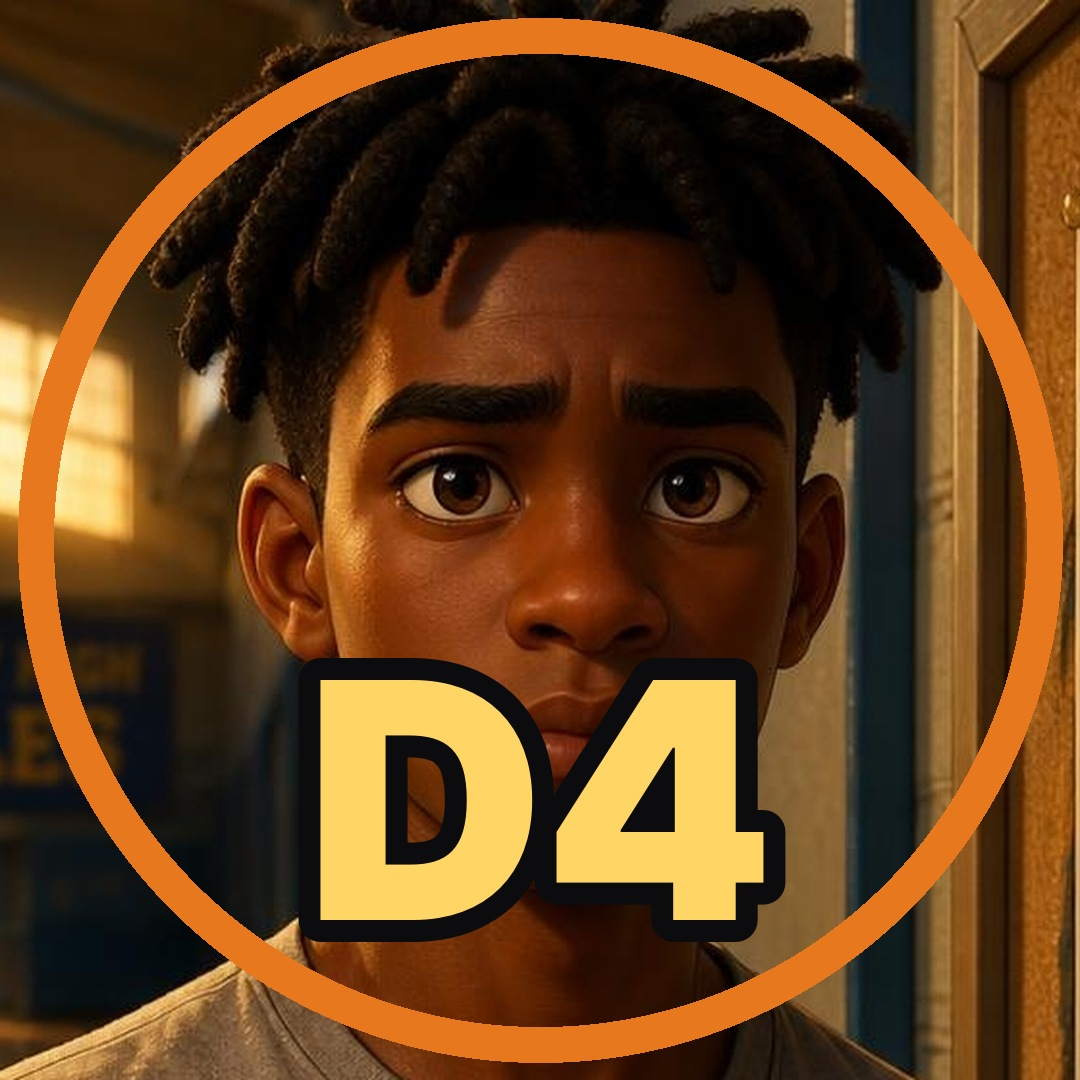
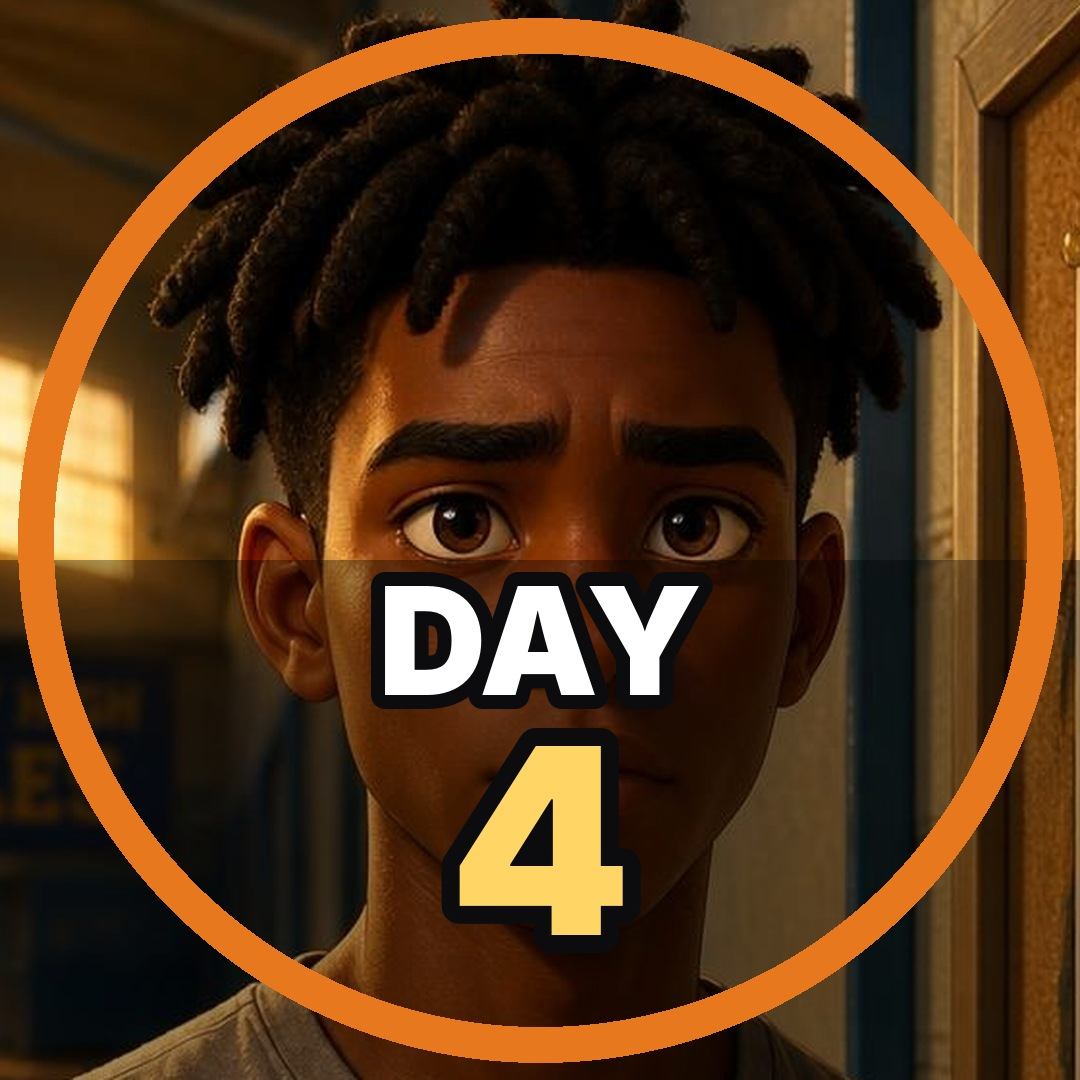
Highlight covers say DAY N
Claude-Session: https://claude.ai/code/session_011DvFfw9y87HpTXz74uYm5X

diff --git a/pipeline/highlight_card.py b/pipeline/highlight_card.py
@@ -45,7 +45,9 @@ def day_cover(out, img, cx, cy, side, ring, num):
     S2=1080; src=Image.open(A+img).convert("RGB"); h=side//2
     c=src.crop((cx-h,cy-h,cx+h,cy+h)).resize((S2,S2),Image.LANCZOS).convert("RGBA"); d=ImageDraw.Draw(c)
     d.ellipse([18,18,S2-18,S2-18],outline=tuple(ring)+(255,),width=36)
-    d.text((S2//2,800),num,font=F("Black",330),fill=(255,214,102),anchor="mm",stroke_width=22,stroke_fill=(12,12,14))
+    sh=Image.new("RGBA",(S2,S2),(0,0,0,0)); ImageDraw.Draw(sh).rectangle([0,560,S2,S2],fill=(0,0,0,90)); c.alpha_composite(sh); d=ImageDraw.Draw(c); d.ellipse([18,18,S2-18,S2-18],outline=tuple(ring)+(255,),width=36)
+    d.text((S2//2,640),"DAY",font=F("Black",150),fill=(255,255,255),anchor="mm",stroke_width=14,stroke_fill=(12,12,14))
+    d.text((S2//2,840),str(num).replace("D","").replace("AY","").strip(),font=F("Black",260),fill=(255,214,102),anchor="mm",stroke_width=18,stroke_fill=(12,12,14))
     c.convert("RGB").save(out,quality=93)
 # Cover crops used so far (image, cx, cy, side, ring): theo theo_d02_clearskin.jpg 430,440,560 (255,214,102);
 # malik malik.jpg 402,320,560 (232,120,30); rosie rosie.jpg 402,390,560 (214,64,46); horde trash_horde.jpg 512,380,520 (140,255,90)
